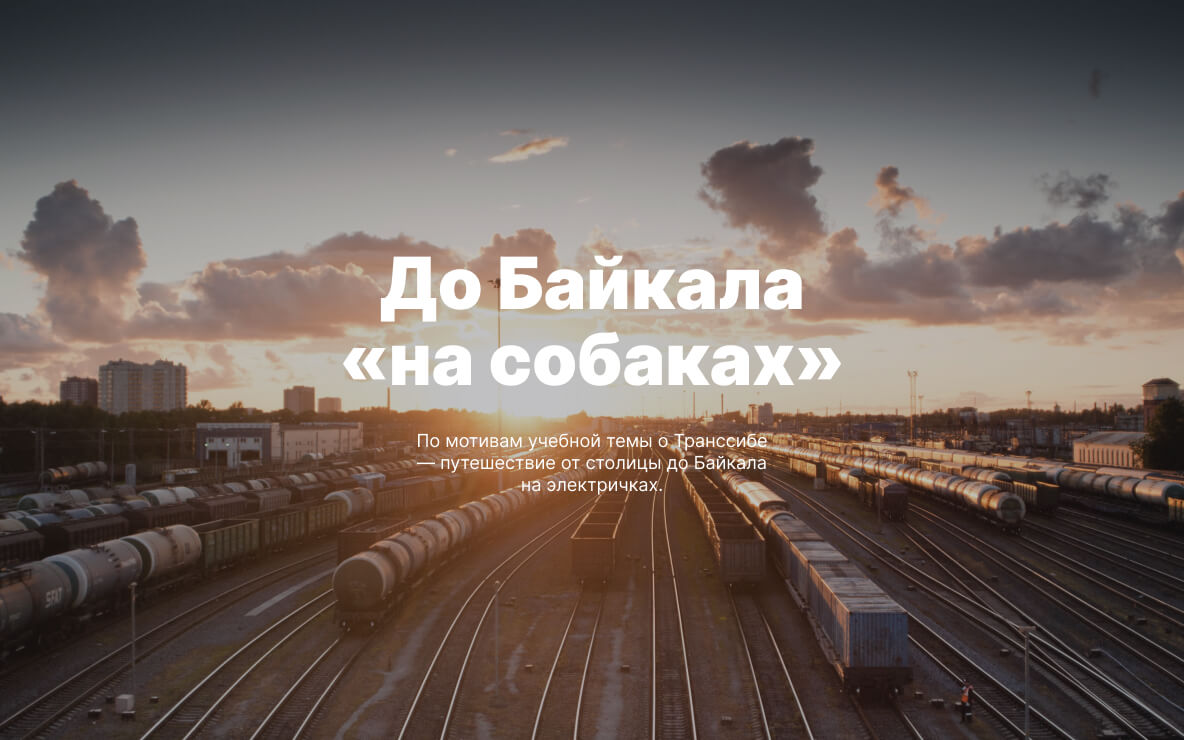
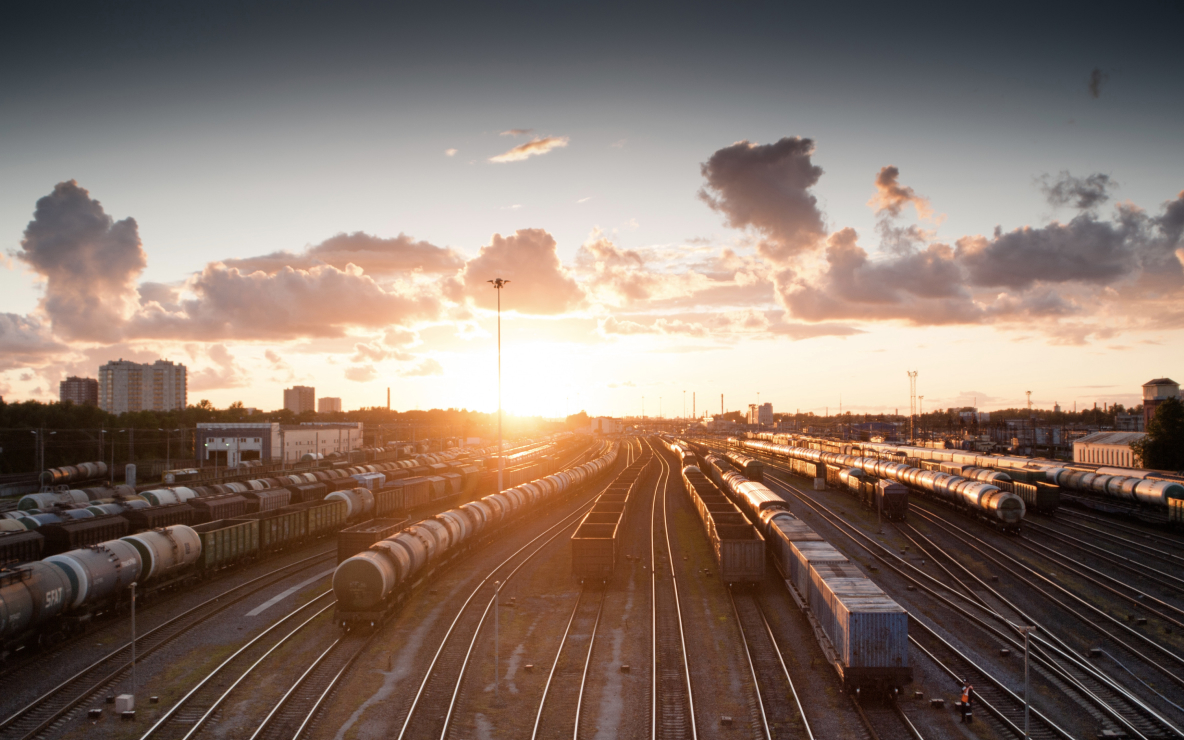
add section cover

diff --git a/index.html b/index.html
@@ -62,7 +62,7 @@
                 <img src="./images/curonian-spit.jpg" alt="Береговая зона Куршской косы, где вода наполнена камнями и пнями" class="place__img">
                 <div class="place__link-container">
                     <span class="place__secondary-text">URL</span>
-                    <a href="http://park-kosa.ru" class="place__link">park-kosa.ru</a>
+                    <a href="http://park-kosa.ru" class="place__link" target="blank">park-kosa.ru</a>
                 </div>
                 <div class="place__text">
                     <p class="place__paragraph">Здесь, посреди лесов и песчаных дюн, вы сможете увидеть два водных горизонта — спокойного Куршского залива с одной стороны и подёрнутого рябью волн Балтийского моря с другой. Уникальная природная зона на краю российского анклава.</p>
@@ -74,7 +74,7 @@
                 <img src="./images/kola-peninsula.jpg" alt="Побережье Баренцева моря на Кольском полусотровеЖ сила моря и заснеженные скалы" class="place__img">
                 <div class="place__link-container">
                     <span class="place__secondary-text">URL</span>
-                    <a href="https://yourshot.nationalgeographic.com/photos/?keywords=kolskiy" class="place__link">National Geographic</a>
+                    <a href="https://yourshot.nationalgeographic.com/photos/?keywords=kolskiy" class="place__link" target="blank">National Geographic</a>
                 </div>
                 <div class="place__text">
                     <p class="place__paragraph">Почти весь полуостров находится за Полярным кругом. Саамская тундра, от которой на юг — тайга, а на север — Ледовитый океан, прикидывающийся Баренцевым морем.</p>
@@ -99,7 +99,7 @@
                 <img src="./images/winter-baikal.png" alt="Причудливые узоры на ледяной глади Байкала" class="place__img">
                 <div class="place__link-container">
                     <span class="place__secondary-text">URL</span>
-                    <a href="https://vk.com/baikalmile" class="place__link">https://vk.com/baikalmile</a>
+                    <a href="https://vk.com/baikalmile" class="place__link" target="blank">https://vk.com/baikalmile</a>
                 </div>
                 <div class="place__text">
                     <p class="place__paragraph">Всем известен Байкал как крупнейшее озеро 
@@ -118,6 +118,12 @@
                     <p class="place__paragraph">Сибирь заканчивается не на Урале, а в Карелии: образующая тайгу сибирская лиственница не растёт западнее Водлозера. Зато здесь она вымахивает на 30 метров — леса карельских национальных парков из-за непроходимых болот никогда не знали топора. Некоторым соснам уже больше чем полтысячелетия. Прикоснитесь к живому существу, видевшему солнце раньше, чем увидал его Иван Грозный. В девственном лесу на сотню километров не встретишь тропы. А на редких тропинках деревья в паре метров от земли помечены медвежьими когтями. Чтобы все знали, кто тут хозяин.</p>
                 </div>
             </article>
+        </section>
+        <section class="cover">
+            <h3 class="cover__title">До Байкала «на собаках»</h3>
+            <p class="cover__subtitle">По мотивам учебной темы о Транссибе — путешествие от столицы до Байкала на электричках.</p>
+            <a href="https://stampsy.com/na-elektrichkakh-do-baikala" class="cover__link" target="blank"></a>
+            <div class="cover__overlay"></div>
         </section>
     </main>
 </body>

diff --git a/blocks/cover/__overlay/cover__overlay.css b/blocks/cover/__overlay/cover__overlay.css
@@ -1,0 +1,28 @@
+.cover__overlay {
+    position: absolute;
+    top: 0;
+    left: 48px;
+    min-width: calc(100% - 96px);
+    height: 100%;
+    background: url('../../../images/cover-trains.jpg') no-repeat 0 0;
+    background-size: cover;
+    z-index: -1;
+    cursor: pointer;
+}
+
+.cover__overlay:before {
+    content: "";
+    position: absolute;
+    top: 0;
+    left: 0;
+    min-width: 100%;
+    min-height: 100%;
+    background-color: rgba(42,44,47,0.3);
+}
+
+@media screen and (max-width: 1024px) {
+    .cover__overlay {
+        min-width: 100%;
+        left: 0;
+    }
+}

diff --git a/blocks/cover/__title/cover__title.css b/blocks/cover/__title/cover__title.css
@@ -1,0 +1,28 @@
+.cover__title {
+    margin: 0;
+    max-width: 45%;
+    font-size: 72px;
+    line-height: 1.06;
+    font-weight: 900;
+    text-align: center;
+}
+
+@media screen and (max-width: 1024px) {
+    .cover__title {
+        max-width: 55%;
+    }
+}
+
+@media screen and (max-width: 768px) {
+    .cover__title {
+        max-width: 70%;
+    }
+}
+
+@media screen and (max-width: 320px) {
+    .cover__title {
+        max-width: 75%;
+        font-size: 32px;
+        line-height: 1.09;
+    }
+}

diff --git a/blocks/cover/cover.css b/blocks/cover/cover.css
@@ -1,0 +1,29 @@
+.cover {
+    position: relative;
+    display: flex;
+    flex-direction: column;
+    justify-content: center;
+    align-items: center;
+    gap: 32px;
+    padding: 0 48px;
+    height: 740px;
+}
+
+@media screen and (max-width: 1024px) {
+    .cover {
+        padding: 0;
+        height: 640px;
+    }  
+}
+
+@media screen and (max-width: 768px) {
+    .cover {
+        height: 480px;
+    }  
+}
+
+@media screen and (max-width: 320px) {
+    .cover {
+        height: 200px;
+    }  
+}

diff --git a/blocks/cover/__subtitle/cover__subtitle.css b/blocks/cover/__subtitle/cover__subtitle.css
@@ -1,0 +1,27 @@
+.cover__subtitle {
+    margin: 0;
+    max-width: 30%;
+    font-size: 18px;
+    line-height: 1.22;
+    text-align: center;
+}
+
+@media screen and (max-width: 1024px) {
+    .cover__subtitle {
+        max-width: 35%;
+    }
+}
+
+@media screen and (max-width: 768px) {
+    .cover__subtitle {
+        max-width: 48%;
+    }
+}
+
+@media screen and (max-width: 320px) {
+    .cover__subtitle {
+        max-width: 65%;
+        font-size: 14px;
+        line-height: 1.14;
+    }
+}

diff --git a/pages/index.css b/pages/index.css
@@ -29,3 +29,8 @@
 @import url(../blocks/place/__link/place__link.css);
 @import url(../blocks/place/__text/place__text.css);
 @import url(../blocks/place/__paragraph/place__paragraph.css);
+@import url(../blocks/cover/cover.css);
+@import url(../blocks/cover/__title/cover__title.css);
+@import url(../blocks/cover/__subtitle/cover__subtitle.css);
+@import url(../blocks/cover/__link/cover__link.css);
+@import url(../blocks/cover/__overlay/cover__overlay.css);

diff --git a/blocks/cover/__link/cover__link.css b/blocks/cover/__link/cover__link.css
@@ -1,0 +1,16 @@
+.cover__link {
+    position: absolute;
+    top: 0;
+    left: 48px;
+    display: block;
+    min-width: calc(100% - 96px);
+    height: 100%;
+    z-index: 1;
+}
+
+@media screen and (max-width: 1024px) {
+    .cover__link {
+        min-width: 100%;
+        left: 0;
+    }
+}
